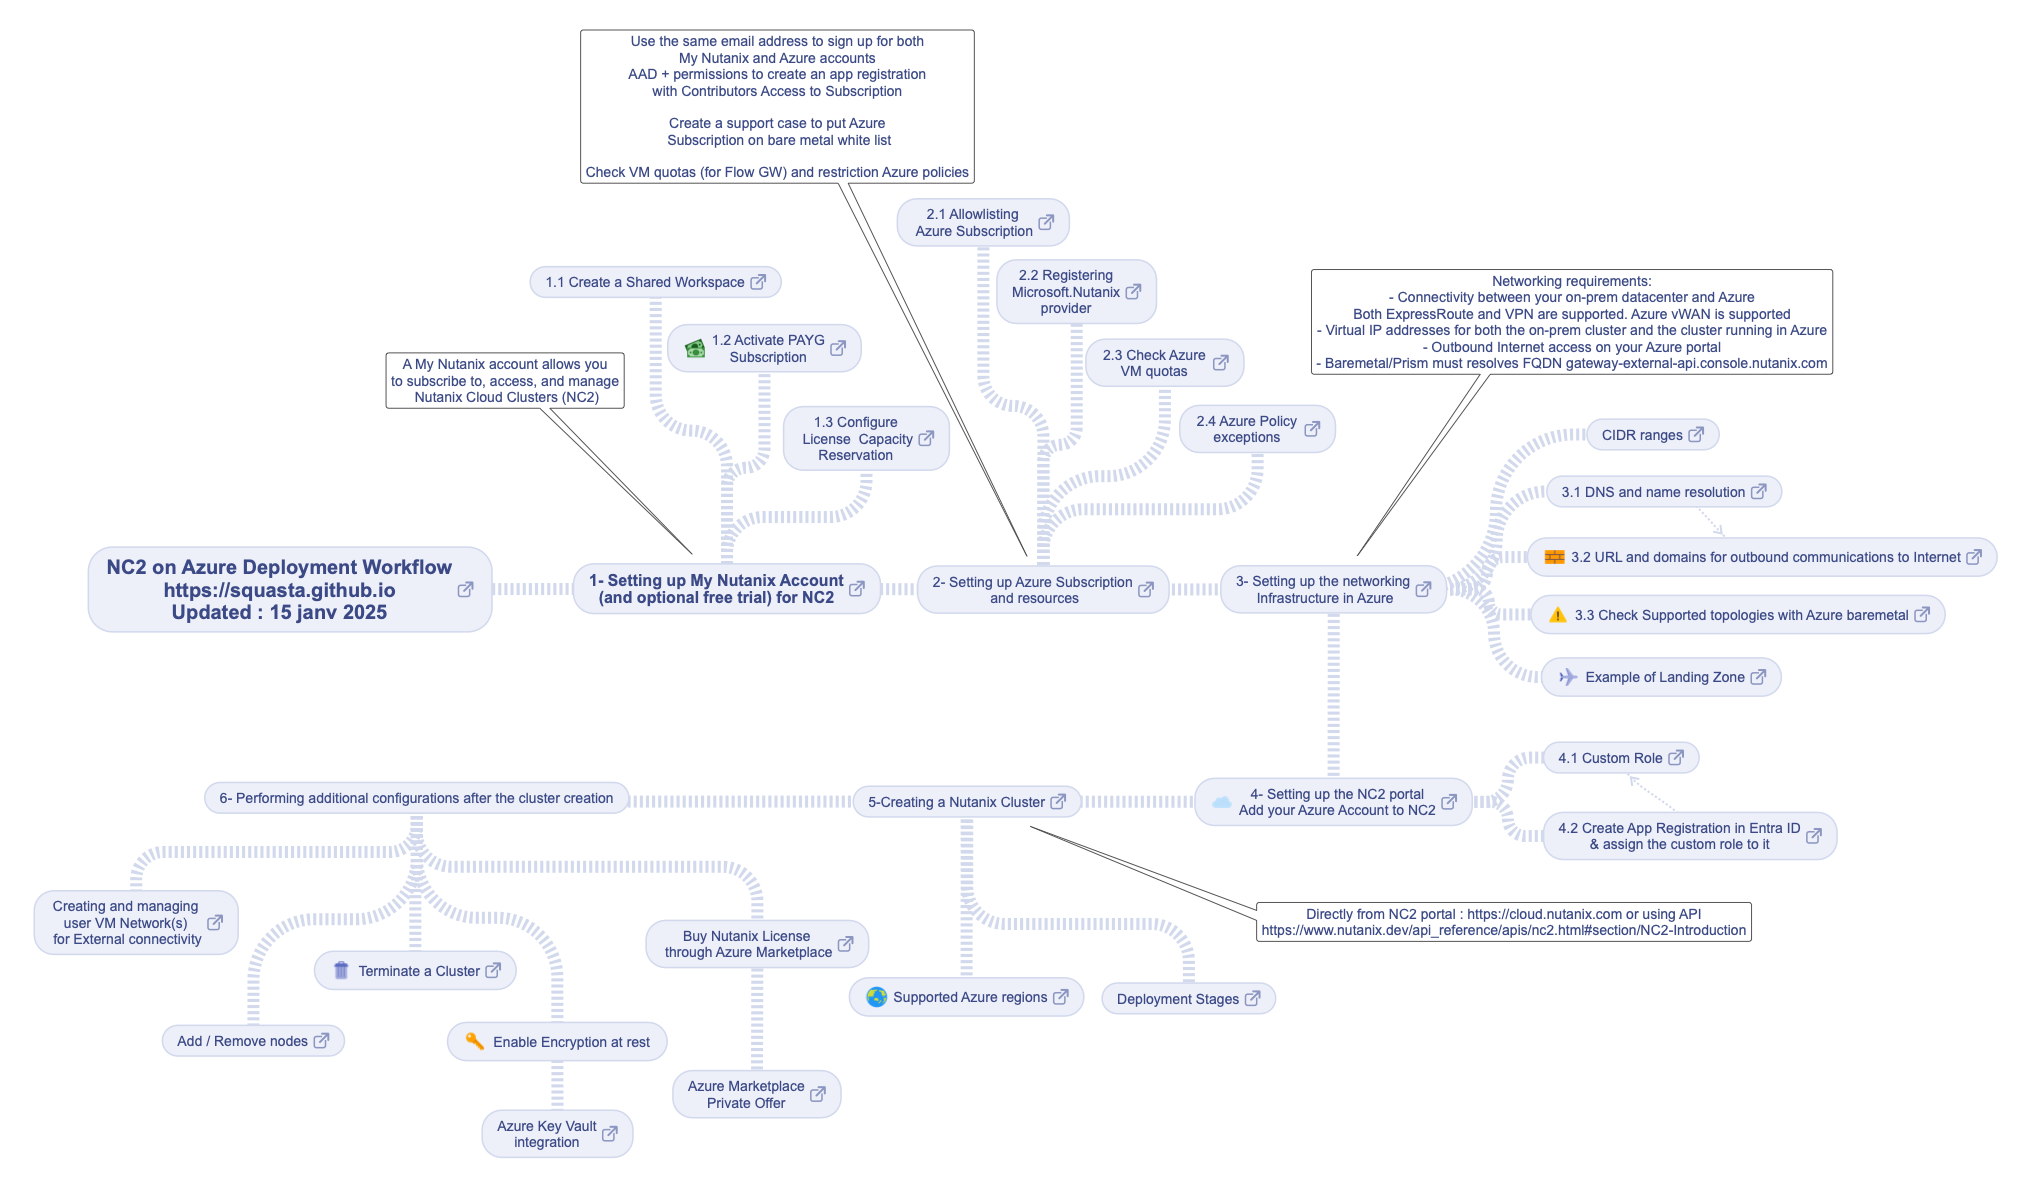
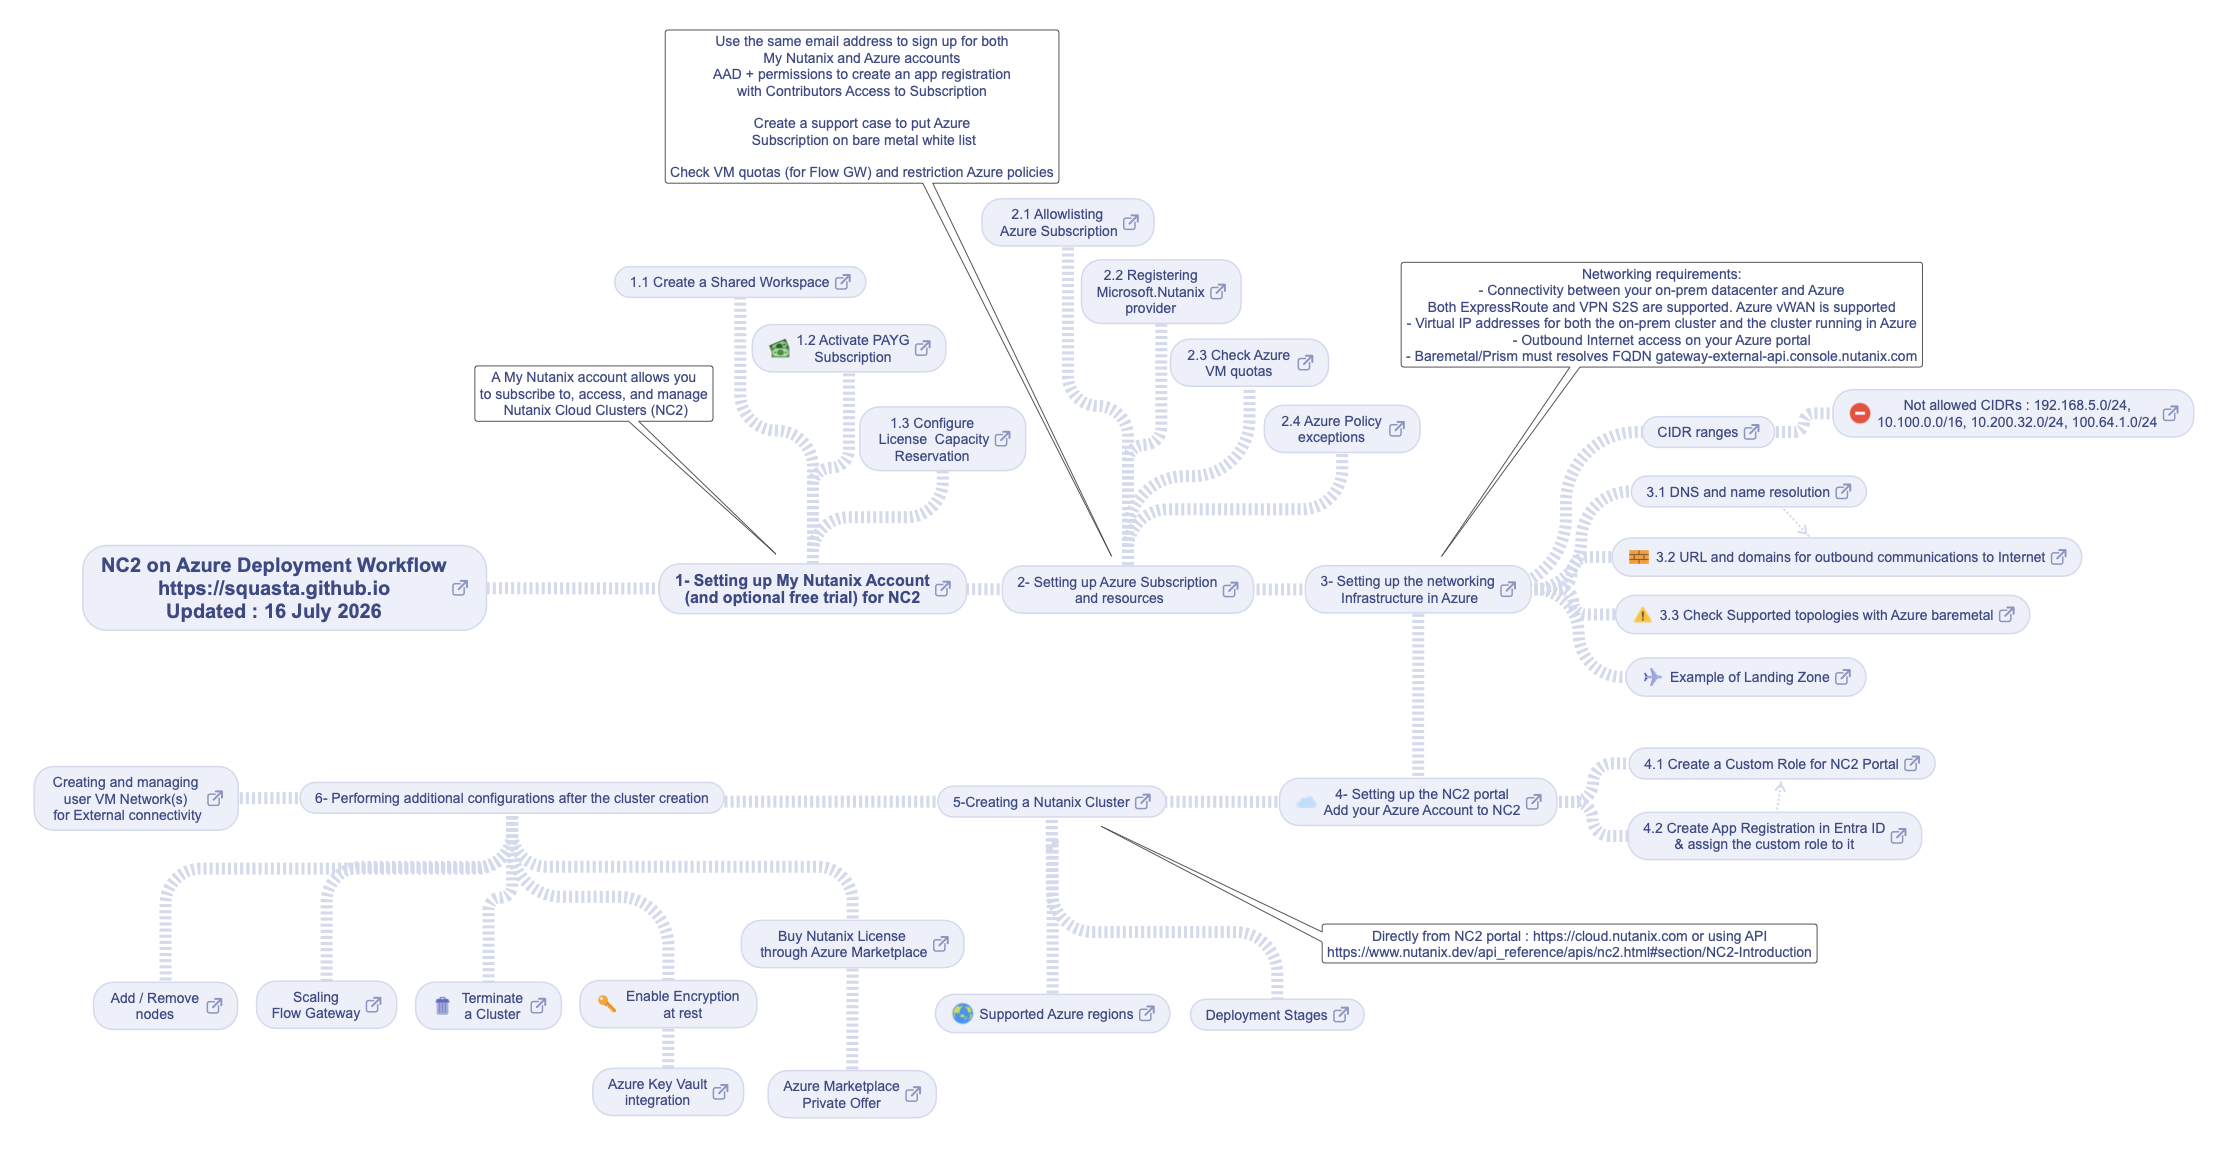
update nc2 azure checklist

Changed region(s): [[0.031, 0.0312, 0.9926, 0.5938], [0.031, 0.625, 0.8996, 0.9688]]

diff --git a/nc2onazuredeploymentworkflow.html b/nc2onazuredeploymentworkflow.html
@@ -7,34 +7,36 @@
     <body>
         <img src="nc2onazuredeploymentworkflow.png" border="none" usemap="#map"></img>
         <map name="map">
-            <area shape="rect" coords="457,581,473,597" href="https://portal.nutanix.com/page/documents/details?targetId=Nutanix-Cloud-Clusters-Azure:nc2-clusters-azure-requirements-for-nc2-on-azure-c.html" target="_blank"></area>
-            <area shape="rect" coords="849,581,865,597" href="https://portal.nutanix.com/page/documents/details?targetId=Nutanix-Cloud-Clusters-Azure:nc2-clusters-subscription-and-billing-c.html" target="_blank"></area>
-            <area shape="rect" coords="1138,582,1154,598" href="https://portal.nutanix.com/page/documents/details?targetId=Nutanix-Cloud-Clusters-Azure:nc2-clusters-azure-portal-setup-c.html" target="_blank"></area>
-            <area shape="rect" coords="1415,581,1431,597" href="https://portal.nutanix.com/page/documents/details?targetId=Nutanix-Cloud-Clusters-Azure:nc2-clusters-azure-setting-up-networking-infrastructure-in-azure-c.html" target="_blank"></area>
-            <area shape="rect" coords="1441,794,1457,810" href="https://portal.nutanix.com/page/documents/details?targetId=Nutanix-Cloud-Clusters-Azure:nc2-clusters-azure-setting-up-azure-account-c.html" target="_blank"></area>
-            <area shape="rect" coords="1050,794,1066,810" href="https://portal.nutanix.com/page/documents/details?targetId=Nutanix-Cloud-Clusters-Azure:nc2-clusters-azure-creating-a-cluster-t.html" target="_blank"></area>
-            <area shape="rect" coords="1053,989,1069,1005" href="https://portal.nutanix.com/page/documents/details?targetId=Nutanix-Cloud-Clusters-Azure:nc2-clusters-azure-regions-c.html" target="_blank"></area>
-            <area shape="rect" coords="207,915,223,931" href="https://squasta.github.io/configurationvpcazure.html" target="_blank"></area>
-            <area shape="rect" coords="313,1033,329,1049" href="https://portal.nutanix.com/page/documents/details?targetId=Nutanix-Cloud-Clusters-Azure:nc2-clusters-azure-updating-cluster-capacity-t.html" target="_blank"></area>
-            <area shape="rect" coords="837,936,853,952" href="https://azuremarketplace.microsoft.com/en-us/marketplace/apps/nutanixinc.nc2_azure?tab=overview" target="_blank"></area>
-            <area shape="rect" coords="810,1086,826,1102" href="https://portal.nutanix.com/page/documents/details?targetId=Nutanix-Cloud-Clusters-Azure:nc2-clusters-cloud-subscribe-nc2-from-marketplace-with-private-offer.html" target="_blank"></area>
-            <area shape="rect" coords="485,962,501,978" href="https://portal.nutanix.com/page/documents/details?targetId=Nutanix-Cloud-Clusters-Azure:nc2-cloud-deleting-a-cluster.html" target="_blank"></area>
-            <area shape="rect" coords="602,1126,618,1142" href="https://www.linkedin.com/pulse/aos-70-support-azure-key-vault-nutanix-cloud-clusters-lessner-tovsc" target="_blank"></area>
-            <area shape="rect" coords="1245,990,1261,1006" href="https://portal.nutanix.com/page/documents/details?targetId=Nutanix-Cloud-Clusters-Azure:nc2-clusters-azure-deployment-models-c.html" target="_blank"></area>
-            <area shape="rect" coords="1668,750,1684,766" href="https://portal.nutanix.com/page/documents/details?targetId=Nutanix-Cloud-Clusters-Azure:nc2-clusters-azure-create-custom-iam-role-t.html" target="_blank"></area>
-            <area shape="rect" coords="1806,828,1822,844" href="https://portal.nutanix.com/page/documents/details?targetId=Nutanix-Cloud-Clusters-Azure:nc2-clusters-azure-creating-an-app-registration-c.html" target="_blank"></area>
-            <area shape="rect" coords="1750,669,1766,685" href="https://github.com/squasta/Simple-Landing-Zone-for-NC2-on-Azure" target="_blank"></area>
-            <area shape="rect" coords="1914,606,1930,622" href="https://learn.microsoft.com/en-us/azure/baremetal-infrastructure/workloads/nc2-on-azure/architecture#supported-topologies" target="_blank"></area>
-            <area shape="rect" coords="1966,549,1982,565" href="https://portal.nutanix.com/page/documents/solutions/details?targetId=TN-2156-NC2-on-Azure:tn-outbound-communication.html" target="_blank"></area>
-            <area shape="rect" coords="1751,483,1767,499" href="https://portal.nutanix.com/page/documents/details?targetId=Nutanix-Cloud-Clusters-Azure:nc2-clusters-azure-setting-up-networking-infrastructure-in-azure-c.html" target="_blank"></area>
-            <area shape="rect" coords="1688,426,1704,442" href="https://portal.nutanix.com/page/documents/solutions/details?targetId=BP-2159-NC2-Azure-Networking:networking-best-practices-for-nutanix-cloud-clusters-on-azure.html" target="_blank"></area>
-            <area shape="rect" coords="1038,214,1054,230" href="https://portal.nutanix.com/page/documents/details?targetId=Nutanix-Cloud-Clusters-Azure:nc2-clusters-azure-allowlist.html" target="_blank"></area>
-            <area shape="rect" coords="1125,284,1141,300" href="https://portal.nutanix.com/page/documents/details?targetId=Nutanix-Cloud-Clusters-Azure:nc2-clusters-azure-registering-the-azure-resource-providers-c.html" target="_blank"></area>
-            <area shape="rect" coords="1213,355,1229,371" href="https://learn.microsoft.com/en-us/azure/quotas/per-vm-quota-requests" target="_blank"></area>
-            <area shape="rect" coords="1304,421,1320,437" href="https://portal.nutanix.com/page/documents/details?targetId=Nutanix-Cloud-Clusters-Azure:nc2-clusters-policy-exemptions-c.html" target="_blank"></area>
-            <area shape="rect" coords="918,430,934,446" href="https://portal.nutanix.com/page/documents/details?targetId=Nutanix-Cloud-Clusters-Azure:nc2-clusters-reserving-license-capacity-for-use-on-nc2-t.html" target="_blank"></area>
-            <area shape="rect" coords="750,274,766,290" href="https://portal.nutanix.com/page/documents/details?targetId=Xi-Cloud-Services-Administration-Guide:adm-nutanix-cloud-creating-workspace-t.html" target="_blank"></area>
-            <area shape="rect" coords="830,340,846,356" href="https://portal.nutanix.com/page/documents/details?targetId=Nutanix-Cloud-Clusters-Azure:nc2-clusters-payg-subscriptions-c.html" target="_blank"></area>
+            <area shape="rect" coords="452,580,468,596" href="https://portal.nutanix.com/page/documents/details?targetId=Nutanix-Cloud-Clusters-Azure:nc2-clusters-azure-requirements-for-nc2-on-azure-c.html" target="_blank"></area>
+            <area shape="rect" coords="935,581,951,597" href="https://portal.nutanix.com/page/documents/details?targetId=Nutanix-Cloud-Clusters-Azure:nc2-clusters-subscription-and-billing-c.html" target="_blank"></area>
+            <area shape="rect" coords="1222,582,1238,598" href="https://portal.nutanix.com/page/documents/details?targetId=Nutanix-Cloud-Clusters-Azure:nc2-clusters-azure-portal-setup-c.html" target="_blank"></area>
+            <area shape="rect" coords="1500,581,1516,597" href="https://portal.nutanix.com/page/documents/details?targetId=Nutanix-Cloud-Clusters-Azure:nc2-clusters-azure-setting-up-networking-infrastructure-in-azure-c.html" target="_blank"></area>
+            <area shape="rect" coords="1526,794,1542,810" href="https://portal.nutanix.com/page/documents/details?targetId=Nutanix-Cloud-Clusters-Azure:nc2-clusters-azure-setting-up-azure-account-c.html" target="_blank"></area>
+            <area shape="rect" coords="1135,794,1151,810" href="https://portal.nutanix.com/page/documents/details?targetId=Nutanix-Cloud-Clusters-Azure:nc2-clusters-azure-creating-a-cluster-t.html" target="_blank"></area>
+            <area shape="rect" coords="1139,1005,1155,1021" href="https://portal.nutanix.com/page/documents/details?targetId=Nutanix-Cloud-Clusters-Azure:nc2-clusters-azure-regions-c.html" target="_blank"></area>
+            <area shape="rect" coords="207,790,223,806" href="https://squasta.github.io/configurationvpcazure.html" target="_blank"></area>
+            <area shape="rect" coords="206,998,222,1014" href="https://portal.nutanix.com/page/documents/details?targetId=Nutanix-Cloud-Clusters-Azure:nc2-clusters-azure-updating-cluster-capacity-t.html" target="_blank"></area>
+            <area shape="rect" coords="933,936,949,952" href="https://azuremarketplace.microsoft.com/en-us/marketplace/apps/nutanixinc.nc2_azure?tab=overview" target="_blank"></area>
+            <area shape="rect" coords="905,1086,921,1102" href="https://portal.nutanix.com/page/documents/details?targetId=Nutanix-Cloud-Clusters-Azure:nc2-clusters-cloud-subscribe-nc2-from-marketplace-with-private-offer.html" target="_blank"></area>
+            <area shape="rect" coords="530,998,546,1014" href="https://portal.nutanix.com/page/documents/details?targetId=Nutanix-Cloud-Clusters-Azure:nc2-cloud-deleting-a-cluster.html" target="_blank"></area>
+            <area shape="rect" coords="712,1084,728,1100" href="https://www.linkedin.com/pulse/aos-70-support-azure-key-vault-nutanix-cloud-clusters-lessner-tovsc" target="_blank"></area>
+            <area shape="rect" coords="365,997,381,1013" href="https://portal.nutanix.com/page/documents/details?targetId=Nutanix-Cloud-Clusters-Azure:nc2-clusters-azure-scale-up-down-flow-gateway-vms-t.html" target="_blank"></area>
+            <area shape="rect" coords="1333,1007,1349,1023" href="https://portal.nutanix.com/page/documents/details?targetId=Nutanix-Cloud-Clusters-Azure:nc2-clusters-azure-deployment-models-c.html" target="_blank"></area>
+            <area shape="rect" coords="1904,756,1920,772" href="https://portal.nutanix.com/page/documents/details?targetId=Nutanix-Cloud-Clusters-Azure:nc2-clusters-azure-create-custom-iam-role-t.html" target="_blank"></area>
+            <area shape="rect" coords="1890,828,1906,844" href="https://portal.nutanix.com/page/documents/details?targetId=Nutanix-Cloud-Clusters-Azure:nc2-clusters-azure-creating-an-app-registration-c.html" target="_blank"></area>
+            <area shape="rect" coords="1835,669,1851,685" href="https://github.com/squasta/Simple-Landing-Zone-for-NC2-on-Azure" target="_blank"></area>
+            <area shape="rect" coords="1999,606,2015,622" href="https://learn.microsoft.com/en-us/azure/baremetal-infrastructure/workloads/nc2-on-azure/architecture#supported-topologies" target="_blank"></area>
+            <area shape="rect" coords="2051,549,2067,565" href="https://portal.nutanix.com/page/documents/details?targetId=Nutanix-Cloud-Clusters-Azure:nc2-clusters-azure-requirements-for-nc2-on-azure-c.html" target="_blank"></area>
+            <area shape="rect" coords="1835,483,1851,499" href="https://portal.nutanix.com/page/documents/details?targetId=Nutanix-Cloud-Clusters-Azure:nc2-clusters-azure-setting-up-networking-infrastructure-in-azure-c.html" target="_blank"></area>
+            <area shape="rect" coords="1743,424,1759,440" href="https://portal.nutanix.com/page/documents/solutions/details?targetId=BP-2159-NC2-Azure-Networking:networking-best-practices-for-nutanix-cloud-clusters-on-azure.html" target="_blank"></area>
+            <area shape="rect" coords="2163,405,2179,421" href="https://portal.nutanix.com/page/documents/details?targetId=Prism-Central-Guide-vpc_7_3:mul-cmsp-req-and-limitations-pc-r.html" target="_blank"></area>
+            <area shape="rect" coords="1123,214,1139,230" href="https://portal.nutanix.com/page/documents/details?targetId=Nutanix-Cloud-Clusters-Azure:nc2-clusters-azure-allowlist.html" target="_blank"></area>
+            <area shape="rect" coords="1210,284,1226,300" href="https://portal.nutanix.com/page/documents/details?targetId=Nutanix-Cloud-Clusters-Azure:nc2-clusters-azure-registering-the-azure-resource-providers-c.html" target="_blank"></area>
+            <area shape="rect" coords="1297,355,1313,371" href="https://learn.microsoft.com/en-us/azure/quotas/per-vm-quota-requests" target="_blank"></area>
+            <area shape="rect" coords="1389,421,1405,437" href="https://portal.nutanix.com/page/documents/details?targetId=Nutanix-Cloud-Clusters-Azure:nc2-clusters-policy-exemptions-c.html" target="_blank"></area>
+            <area shape="rect" coords="994,431,1010,447" href="https://portal.nutanix.com/page/documents/details?targetId=Nutanix-Cloud-Clusters-Azure:nc2-clusters-reserving-license-capacity-for-use-on-nc2-t.html" target="_blank"></area>
+            <area shape="rect" coords="835,274,851,290" href="https://portal.nutanix.com/page/documents/details?targetId=Xi-Cloud-Services-Administration-Guide:adm-nutanix-cloud-creating-workspace-t.html" target="_blank"></area>
+            <area shape="rect" coords="915,340,931,356" href="https://portal.nutanix.com/page/documents/details?targetId=Nutanix-Cloud-Clusters-Azure:nc2-clusters-payg-subscriptions-c.html" target="_blank"></area>
         </map>
     </body>
 </html>